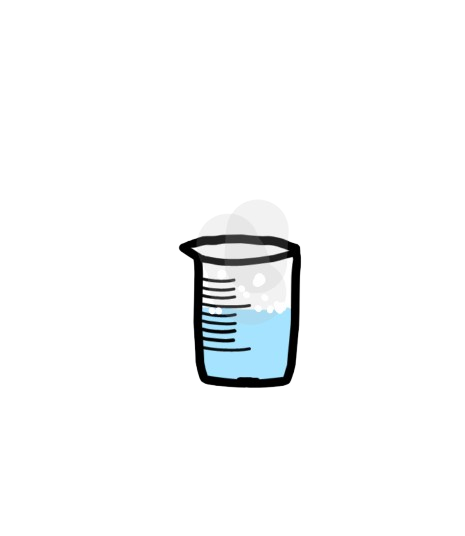
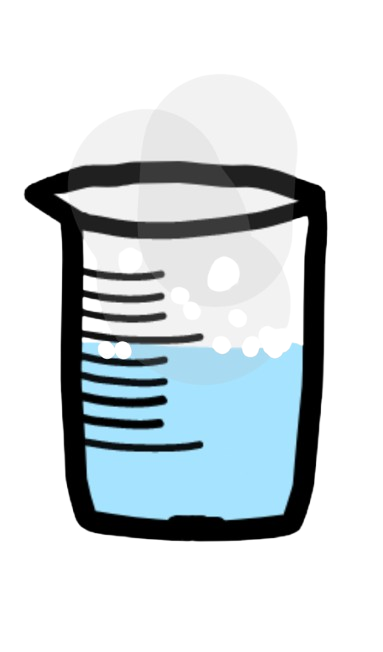
Fix bug 16/7/2025

Changed region(s): [[0.0574, 0.2388, 0.8616, 0.8358], [0.3734, 0.1791, 0.4021, 0.209]]

diff --git a/src/routes/lab-menu/+page.svelte b/src/routes/lab-menu/+page.svelte
@@ -59,7 +59,7 @@
                                     {:else}
                                         <img src="./assets/undone.svg" alt="" class="undone-image">
                                 {/if}
-                                <h3 class="lab-name kanit" style="font-size: 24px; font-weight: 400;">LAB {id}: {data.name}</h3>
+                                <h3 class="lab-name kanit" style="font-size: 24px; font-weight: 400;">LAB {data.id+1}: {data.name}</h3>
                                 <h3 class="level kanit" style="font-size: 24px; font-weight: 400; color: #00AAFF">ชั้นมัธยมศึกษาปีที่ {data.level}</h3>
                                 <div class="stars">
                                     {#each Array.from({ length: data.stars }) as _, i}
@@ -83,11 +83,11 @@
                                         {:else}
                                             <img src="./assets/undone.svg" alt="" class="undone-image">
                                     {/if}
-                                    <h3 class="lab-name kanit" style="font-size: 24px; font-weight: 400;">LAB {id}: {data.name}</h3>
+                                    <h3 class="lab-name kanit" style="font-size: 24px; font-weight: 400;">LAB {data.id+1}: {data.name}</h3>
                                     <h3 class="level kanit" style="font-size: 24px; font-weight: 400; color: #00AAFF">ชั้นมัธยมศึกษาปีที่ {data.level}</h3>
                                     <div class="stars">
                                         {#each Array.from({ length: data.stars }) as _, i}
-                                            <img src="./star.svg" alt="" class="rate">
+                                            <img src="./assets/star.svg" alt="" class="rate">
                                         {/each}
                                     </div>
 
@@ -151,10 +151,17 @@
                         border: none;
                         transition: 0.2s ease-in;
                         cursor: pointer;
-                        
+                        border: 2px solid white;
+                        transition: 0.15s ease-out;
+
+                        &:hover {
+                            border-color: #FFCB66;
+                        }
 
                         
                     }
+
+                   
 
                     .settings {
                         
@@ -166,6 +173,12 @@
                         border: none;
                         transition: 0.2s ease-in;
                         cursor: pointer;
+                        border: 2px solid white;
+                        transition: 0.15s ease-out;
+
+                        &:hover {
+                            border-color: #FFCB66;
+                        }
 
                     }
                 }

diff --git a/src/lib/data/LabData.ts b/src/lib/data/LabData.ts
@@ -16,7 +16,7 @@ const labsData: LabsData[] = [
     {
         id: 0,
         done: false,
-        name: "การทดลองครั้งที่ 1",
+        name: "การทดลองอัตราการเกิดปฏิกิริยาเคมี โดยมีปัจจัยคืออุณหภูมิ",
         level: "4",
         stars: 2,
         learning_id: 0,
@@ -27,7 +27,7 @@ const labsData: LabsData[] = [
             "ดรอปเปอร์": "/assets/lab-asset/lab1/dropper.png",
             "นาฬิกาจับเวลา(มือถือ)": "/assets/lab-asset/lab1/clock.svg",
             "แหล่งกำเนิดไฟ": "/assets/lab-asset/lab1/fire.png",
-            "บีกเกอร์": "/assets/lab-asset/lab1/Biger.png",
+            "บีกเกอร์": "/assets/lab-asset/lab1/beaker.png",
             "น้ำเชื่อม": "/assets/lab-asset/lab1/Syrub.png",
             "หลอดทดลอง 2 หลอด": "/assets/lab-asset/lab1/tube.png"
         }

diff --git a/src/lib/labs/lab1/game/scenes/Game.ts b/src/lib/labs/lab1/game/scenes/Game.ts
@@ -347,6 +347,7 @@ export default class Game extends Phaser.Scene {
 
 		// Update these independent factors
 		this.boiled = true;
+		if (this.boiled) this.beaker.setTexture("boilwater");
 		this.shouldUpdateTimer = false;
 
 		// Remove fire
@@ -605,6 +606,7 @@ export default class Game extends Phaser.Scene {
 					`ต้มนํ้าโดยใช้เวลา ${countdownTimeSec} วินาที`, 
 					this.PRIORITY_LEVELS.BOILING
 				);
+				this.beaker.setTexture("beaker_water")
 				this.hasShownBoilInstruction = true;
 				this.updateWaterFinished = true;
 				this.triggerActivatedWaterBot = true;

diff --git a/src/routes/+page.svelte b/src/routes/+page.svelte
@@ -56,9 +56,15 @@
                     height: 100px;
                     border-radius: 35px;
                     background-color: #FFFFFF;
-                    border: none;
-                    transition: 0.2s ease-in;
+                    
+                    
                     cursor: pointer;
+                    border: 2px solid white;
+                    transition: 0.15s ease-out;
+
+                    &:hover {
+                        border-color: #FFCB66;
+                    }
                     
 
                     

diff --git a/src/routes/settings/+page.svelte b/src/routes/settings/+page.svelte
@@ -62,9 +62,14 @@
                     height: 100px;
                     border-radius: 35px;
                     background-color: #FFFFFF;
-                    border: none;
-                    transition: 0.2s ease-in;
+                    
                     cursor: pointer;
+                    border: 2px solid white;
+                    transition: 0.15s ease-out;
+
+                    &:hover {
+                        border-color: #FFCB66;
+                    }
                     
 
                     

diff --git a/src/routes/game/[id]/+page.svelte b/src/routes/game/[id]/+page.svelte
@@ -54,13 +54,19 @@
         width: 100px;
         height: 100px;
         background-color: white;
-        border: none;
+       
         border-radius: 35px;
         cursor: pointer;
         position: absolute;
         top: 0;
         left: 0;
         margin: 1rem;
+        border: 3px solid white;
+        transition: 0.15s ease-out;
+
+        &:hover {
+            border-color: #FFCB66;
+        }
 
       }
 

diff --git a/src/routes/learning/[id]/+page.svelte b/src/routes/learning/[id]/+page.svelte
@@ -3,7 +3,7 @@
     import type { PageServerData } from "./$types";
     import { onMount } from "svelte";
 
-    let videoId = 'kgdpC2GjQt4'
+    let videoId = '1IkovxaOYjA'
     let player: YT.Player;
     let isPlaying: boolean = false;
     let progress: number = 0;

diff --git a/src/routes/game/[id]/tools/+page.svelte b/src/routes/game/[id]/tools/+page.svelte
@@ -108,6 +108,7 @@
                     img {
                         width: 200px;
                         height: 200px;
+                        object-fit: cover;
                     
                     }
                 }
